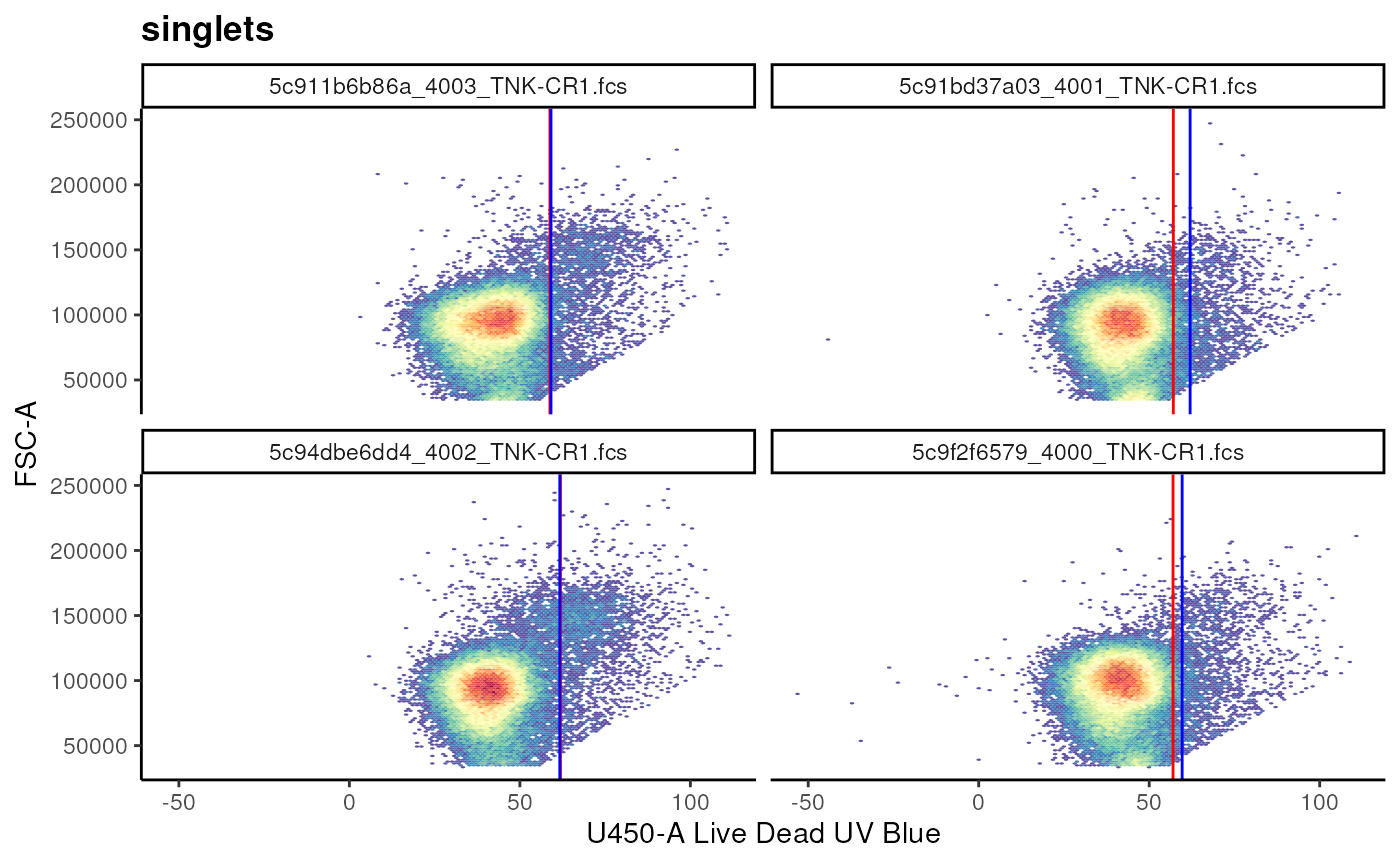
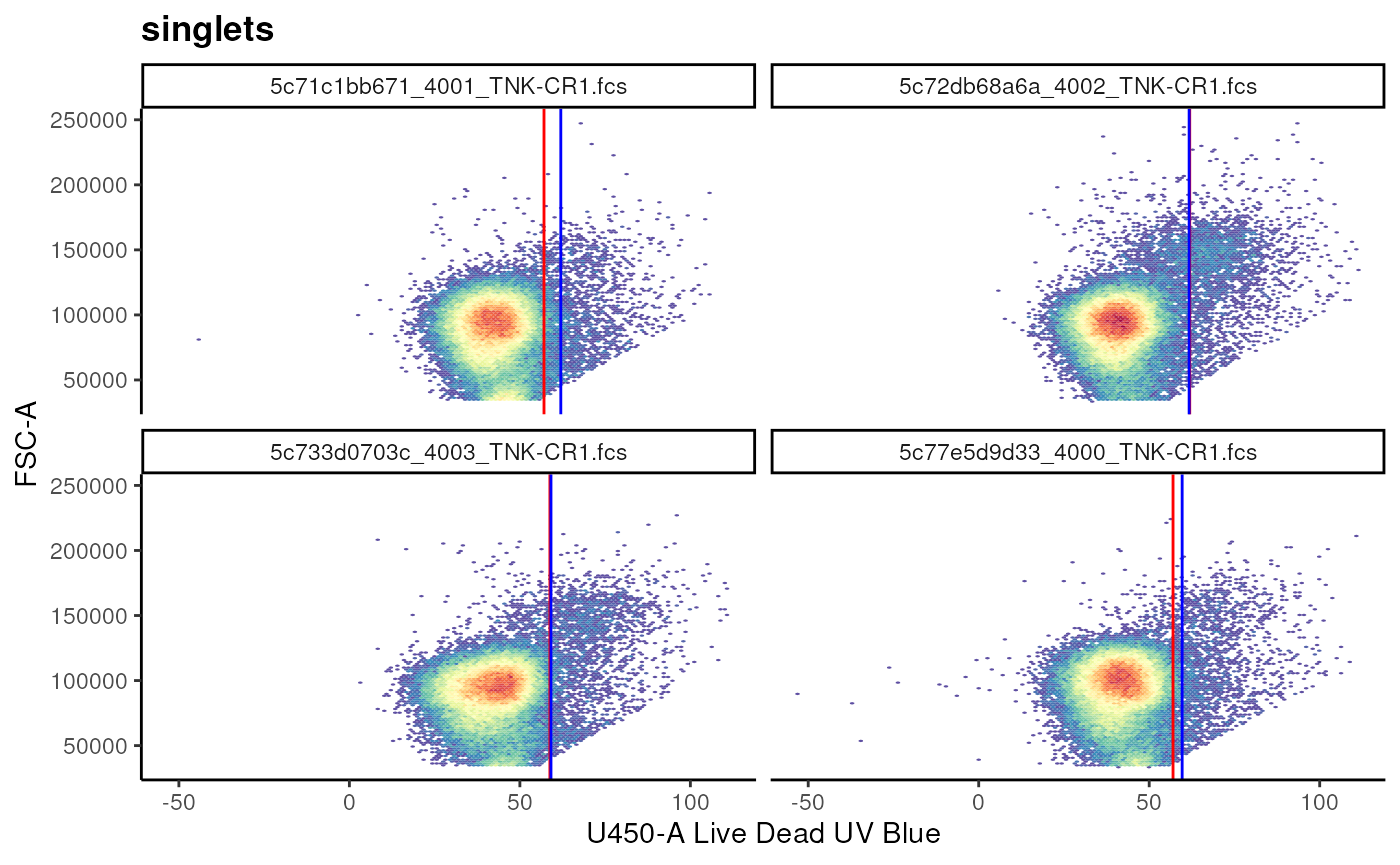
Deploying to gh-pages from @ OzetteTech/cytoverse-bioc-2023@b0a0c4ab40635c4f12243727336af4b23ea84a79 🚀

diff --git a/articles/1_Import_fcs.html b/articles/1_Import_fcs.html
@@ -278,7 +278,7 @@ indicated in the <code>rpath</code> variable.</p>
 <span></span>
 <span><span class="co"># a cytoframe object</span></span>
 <span><span class="va">cf</span></span></code></pre></div>
-<pre><code><span><span class="co">## cytoframe object '5c9f2f6579_4000_TNK-CR1.fcs'</span></span>
+<pre><code><span><span class="co">## cytoframe object '5c77e5d9d33_4000_TNK-CR1.fcs'</span></span>
 <span><span class="co">## with 102015 cells and 33 observables:</span></span>
 <span><span class="co">##                   name            desc     range  minRange  maxRange</span></span>
 <span><span class="co">## $P1              FSC-A              NA    262143    0.0000    262143</span></span>
@@ -530,7 +530,7 @@ expression matrix <code>exprs(cf)</code> as well as the columns of the
 <code class="sourceCode R"><span><span class="co"># subset cytorame by column</span></span>
 <span><span class="va">s_cf</span> <span class="op">&lt;-</span> <span class="va">cf</span><span class="op">[</span>, <span class="va">CD4_chan</span><span class="op">]</span></span>
 <span><span class="va">s_cf</span></span></code></pre></div>
-<pre><code><span><span class="co">## cytoframe object '5c9f2f6579_4000_TNK-CR1.fcs'</span></span>
+<pre><code><span><span class="co">## cytoframe object '5c77e5d9d33_4000_TNK-CR1.fcs'</span></span>
 <span><span class="co">## with 102015 cells and 1 observables:</span></span>
 <span><span class="co">##        name       desc     range  minRange  maxRange</span></span>
 <span><span class="co">## $P23 U785-A CD4 BUV805    262143  -80.5002    262143</span></span>
@@ -541,7 +541,7 @@ expression matrix <code>exprs(cf)</code> as well as the columns of the
 <code class="sourceCode R"><span><span class="co"># subset cytoframe by row</span></span>
 <span><span class="va">s2_cf</span> <span class="op">&lt;-</span> <span class="va">cf</span><span class="op">[</span><span class="fl">1</span><span class="op">:</span><span class="fl">100</span>, <span class="op">]</span></span>
 <span><span class="va">s2_cf</span></span></code></pre></div>
-<pre><code><span><span class="co">## cytoframe object '5c9f2f6579_4000_TNK-CR1.fcs'</span></span>
+<pre><code><span><span class="co">## cytoframe object '5c77e5d9d33_4000_TNK-CR1.fcs'</span></span>
 <span><span class="co">## with 100 cells and 33 observables:</span></span>
 <span><span class="co">##                   name            desc     range  minRange  maxRange</span></span>
 <span><span class="co">## $P1              FSC-A              NA    262143    0.0000    262143</span></span>
@@ -718,12 +718,12 @@ the <code>sampleNames</code> of the <code>cytoset</code>.</p>
 <code class="sourceCode R"><span><span class="co"># prior to providing metadata</span></span>
 <span><span class="fu"><a href="https://rdrr.io/pkg/Biobase/man/phenoData.html" class="external-link">pData</a></span><span class="op">(</span><span class="va">cs</span><span class="op">)</span></span></code></pre></div>
 <pre><code><span><span class="co">##                                                      name</span></span>
-<span><span class="co">## 5c96e8f135b_4000_BDC-CR1.fcs 5c96e8f135b_4000_BDC-CR1.fcs</span></span>
-<span><span class="co">## 5c9f2f6579_4000_TNK-CR1.fcs   5c9f2f6579_4000_TNK-CR1.fcs</span></span>
-<span><span class="co">## 5c942bafdf3_4001_BDC-CR1.fcs 5c942bafdf3_4001_BDC-CR1.fcs</span></span>
-<span><span class="co">## 5c91bd37a03_4001_TNK-CR1.fcs 5c91bd37a03_4001_TNK-CR1.fcs</span></span>
-<span><span class="co">## 5c94dbe6dd4_4002_TNK-CR1.fcs 5c94dbe6dd4_4002_TNK-CR1.fcs</span></span>
-<span><span class="co">## 5c911b6b86a_4003_TNK-CR1.fcs 5c911b6b86a_4003_TNK-CR1.fcs</span></span></code></pre>
+<span><span class="co">## 5c759f9821f_4000_BDC-CR1.fcs 5c759f9821f_4000_BDC-CR1.fcs</span></span>
+<span><span class="co">## 5c77e5d9d33_4000_TNK-CR1.fcs 5c77e5d9d33_4000_TNK-CR1.fcs</span></span>
+<span><span class="co">## 5c73a2a2f47_4001_BDC-CR1.fcs 5c73a2a2f47_4001_BDC-CR1.fcs</span></span>
+<span><span class="co">## 5c71c1bb671_4001_TNK-CR1.fcs 5c71c1bb671_4001_TNK-CR1.fcs</span></span>
+<span><span class="co">## 5c72db68a6a_4002_TNK-CR1.fcs 5c72db68a6a_4002_TNK-CR1.fcs</span></span>
+<span><span class="co">## 5c733d0703c_4003_TNK-CR1.fcs 5c733d0703c_4003_TNK-CR1.fcs</span></span></code></pre>
 <div class="sourceCode" id="cb46"><pre class="downlit sourceCode r">
 <code class="sourceCode R"><span><span class="co"># create metadata</span></span>
 <span><span class="va">metadata</span> <span class="op">&lt;-</span> <span class="fu"><a href="https://rdrr.io/r/base/data.frame.html" class="external-link">data.frame</a></span><span class="op">(</span></span>
@@ -752,12 +752,12 @@ the <code>sampleNames</code> of the <code>cytoset</code>.</p>
 <span><span class="fu"><a href="https://rdrr.io/pkg/Biobase/man/phenoData.html" class="external-link">pData</a></span><span class="op">(</span><span class="va">cs</span><span class="op">)</span> <span class="op">&lt;-</span> <span class="va">metadata</span></span>
 <span><span class="fu"><a href="https://rdrr.io/pkg/Biobase/man/phenoData.html" class="external-link">pData</a></span><span class="op">(</span><span class="va">cs</span><span class="op">)</span></span></code></pre></div>
 <pre><code><span><span class="co">##                              Treatment         panel</span></span>
-<span><span class="co">## 5c96e8f135b_4000_BDC-CR1.fcs Untreated Myeloid Panel</span></span>
-<span><span class="co">## 5c9f2f6579_4000_TNK-CR1.fcs    Treated  T Cell Panel</span></span>
-<span><span class="co">## 5c942bafdf3_4001_BDC-CR1.fcs Untreated Myeloid Panel</span></span>
-<span><span class="co">## 5c91bd37a03_4001_TNK-CR1.fcs   Treated  T Cell Panel</span></span>
-<span><span class="co">## 5c94dbe6dd4_4002_TNK-CR1.fcs Untreated  T Cell Panel</span></span>
-<span><span class="co">## 5c911b6b86a_4003_TNK-CR1.fcs   Treated  T Cell Panel</span></span></code></pre>
+<span><span class="co">## 5c759f9821f_4000_BDC-CR1.fcs Untreated Myeloid Panel</span></span>
+<span><span class="co">## 5c77e5d9d33_4000_TNK-CR1.fcs   Treated  T Cell Panel</span></span>
+<span><span class="co">## 5c73a2a2f47_4001_BDC-CR1.fcs Untreated Myeloid Panel</span></span>
+<span><span class="co">## 5c71c1bb671_4001_TNK-CR1.fcs   Treated  T Cell Panel</span></span>
+<span><span class="co">## 5c72db68a6a_4002_TNK-CR1.fcs Untreated  T Cell Panel</span></span>
+<span><span class="co">## 5c733d0703c_4003_TNK-CR1.fcs   Treated  T Cell Panel</span></span></code></pre>
 <p>The benefit of having metadata is that we can use many of the
 sub-setting operations in a metadata specific manner.</p>
 <p>This is much more convenient than going back and forth between the
@@ -774,8 +774,8 @@ full set of files.</p>
 <div class="sourceCode" id="cb53"><pre class="downlit sourceCode r">
 <code class="sourceCode R"><span><span class="fu"><a href="https://rdrr.io/pkg/Biobase/man/phenoData.html" class="external-link">pData</a></span><span class="op">(</span><span class="va">cs_myeloid</span><span class="op">)</span></span></code></pre></div>
 <pre><code><span><span class="co">##                              Treatment         panel</span></span>
-<span><span class="co">## 5c96e8f135b_4000_BDC-CR1.fcs Untreated Myeloid Panel</span></span>
-<span><span class="co">## 5c942bafdf3_4001_BDC-CR1.fcs Untreated Myeloid Panel</span></span></code></pre>
+<span><span class="co">## 5c759f9821f_4000_BDC-CR1.fcs Untreated Myeloid Panel</span></span>
+<span><span class="co">## 5c73a2a2f47_4001_BDC-CR1.fcs Untreated Myeloid Panel</span></span></code></pre>
 <div class="section level3">
 <h3 id="cytoset-views-and-aliasing">Cytoset views and aliasing<a class="anchor" aria-label="anchor" href="#cytoset-views-and-aliasing"></a>
 </h3>
@@ -824,10 +824,10 @@ To confirm this, you can use <code>cs_get_uri</code> or
 <code>cf_get_uri</code>:</p>
 <div class="sourceCode" id="cb63"><pre class="downlit sourceCode r">
 <code class="sourceCode R"><span><span class="fu"><a href="https://rdrr.io/pkg/flowWorkspace/man/cs_get_uri.html" class="external-link">cs_get_uri</a></span><span class="op">(</span><span class="va">cs_small</span><span class="op">)</span></span></code></pre></div>
-<pre><code><span><span class="co">## [1] "/tmp/RtmpNdOH3t/560506f9-5c23-4374-a2c5-7386955452c1"</span></span></code></pre>
+<pre><code><span><span class="co">## [1] "/tmp/RtmphQtnBs/2477bc23-b288-44fa-af17-0a51ceae2776"</span></span></code></pre>
 <div class="sourceCode" id="cb65"><pre class="downlit sourceCode r">
 <code class="sourceCode R"><span><span class="fu"><a href="https://rdrr.io/pkg/flowWorkspace/man/cs_get_uri.html" class="external-link">cs_get_uri</a></span><span class="op">(</span><span class="va">cs</span><span class="op">)</span></span></code></pre></div>
-<pre><code><span><span class="co">## [1] "/tmp/RtmpNdOH3t/560506f9-5c23-4374-a2c5-7386955452c1"</span></span></code></pre>
+<pre><code><span><span class="co">## [1] "/tmp/RtmphQtnBs/2477bc23-b288-44fa-af17-0a51ceae2776"</span></span></code></pre>
 <p>To perform a <strong>deep copy</strong> we can use
 <code><a href="https://rdrr.io/pkg/flowWorkspace/man/cytoframe.html" class="external-link">realize_view()</a></code></p>
 <div class="sourceCode" id="cb67"><pre class="downlit sourceCode r">
@@ -933,12 +933,12 @@ attempted to be coerced to a single array like object. (Set
 <span><span class="va">n_cell_events</span> <span class="op">&lt;-</span> <span class="fu"><a href="https://rdrr.io/pkg/flowCore/man/fsApply.html" class="external-link">fsApply</a></span><span class="op">(</span><span class="va">cs</span>, <span class="va">nrow</span><span class="op">)</span></span>
 <span><span class="va">n_cell_events</span></span></code></pre></div>
 <pre><code><span><span class="co">##                                [,1]</span></span>
-<span><span class="co">## 5c96e8f135b_4000_BDC-CR1.fcs 912254</span></span>
-<span><span class="co">## 5c9f2f6579_4000_TNK-CR1.fcs  102015</span></span>
-<span><span class="co">## 5c942bafdf3_4001_BDC-CR1.fcs 924474</span></span>
-<span><span class="co">## 5c91bd37a03_4001_TNK-CR1.fcs  92703</span></span>
-<span><span class="co">## 5c94dbe6dd4_4002_TNK-CR1.fcs 372224</span></span>
-<span><span class="co">## 5c911b6b86a_4003_TNK-CR1.fcs 146150</span></span></code></pre>
+<span><span class="co">## 5c759f9821f_4000_BDC-CR1.fcs 912254</span></span>
+<span><span class="co">## 5c77e5d9d33_4000_TNK-CR1.fcs 102015</span></span>
+<span><span class="co">## 5c73a2a2f47_4001_BDC-CR1.fcs 924474</span></span>
+<span><span class="co">## 5c71c1bb671_4001_TNK-CR1.fcs  92703</span></span>
+<span><span class="co">## 5c72db68a6a_4002_TNK-CR1.fcs 372224</span></span>
+<span><span class="co">## 5c733d0703c_4003_TNK-CR1.fcs 146150</span></span></code></pre>
 <div class="section level3">
 <h3 id="exercises">Exercises<a class="anchor" aria-label="anchor" href="#exercises"></a>
 </h3>
